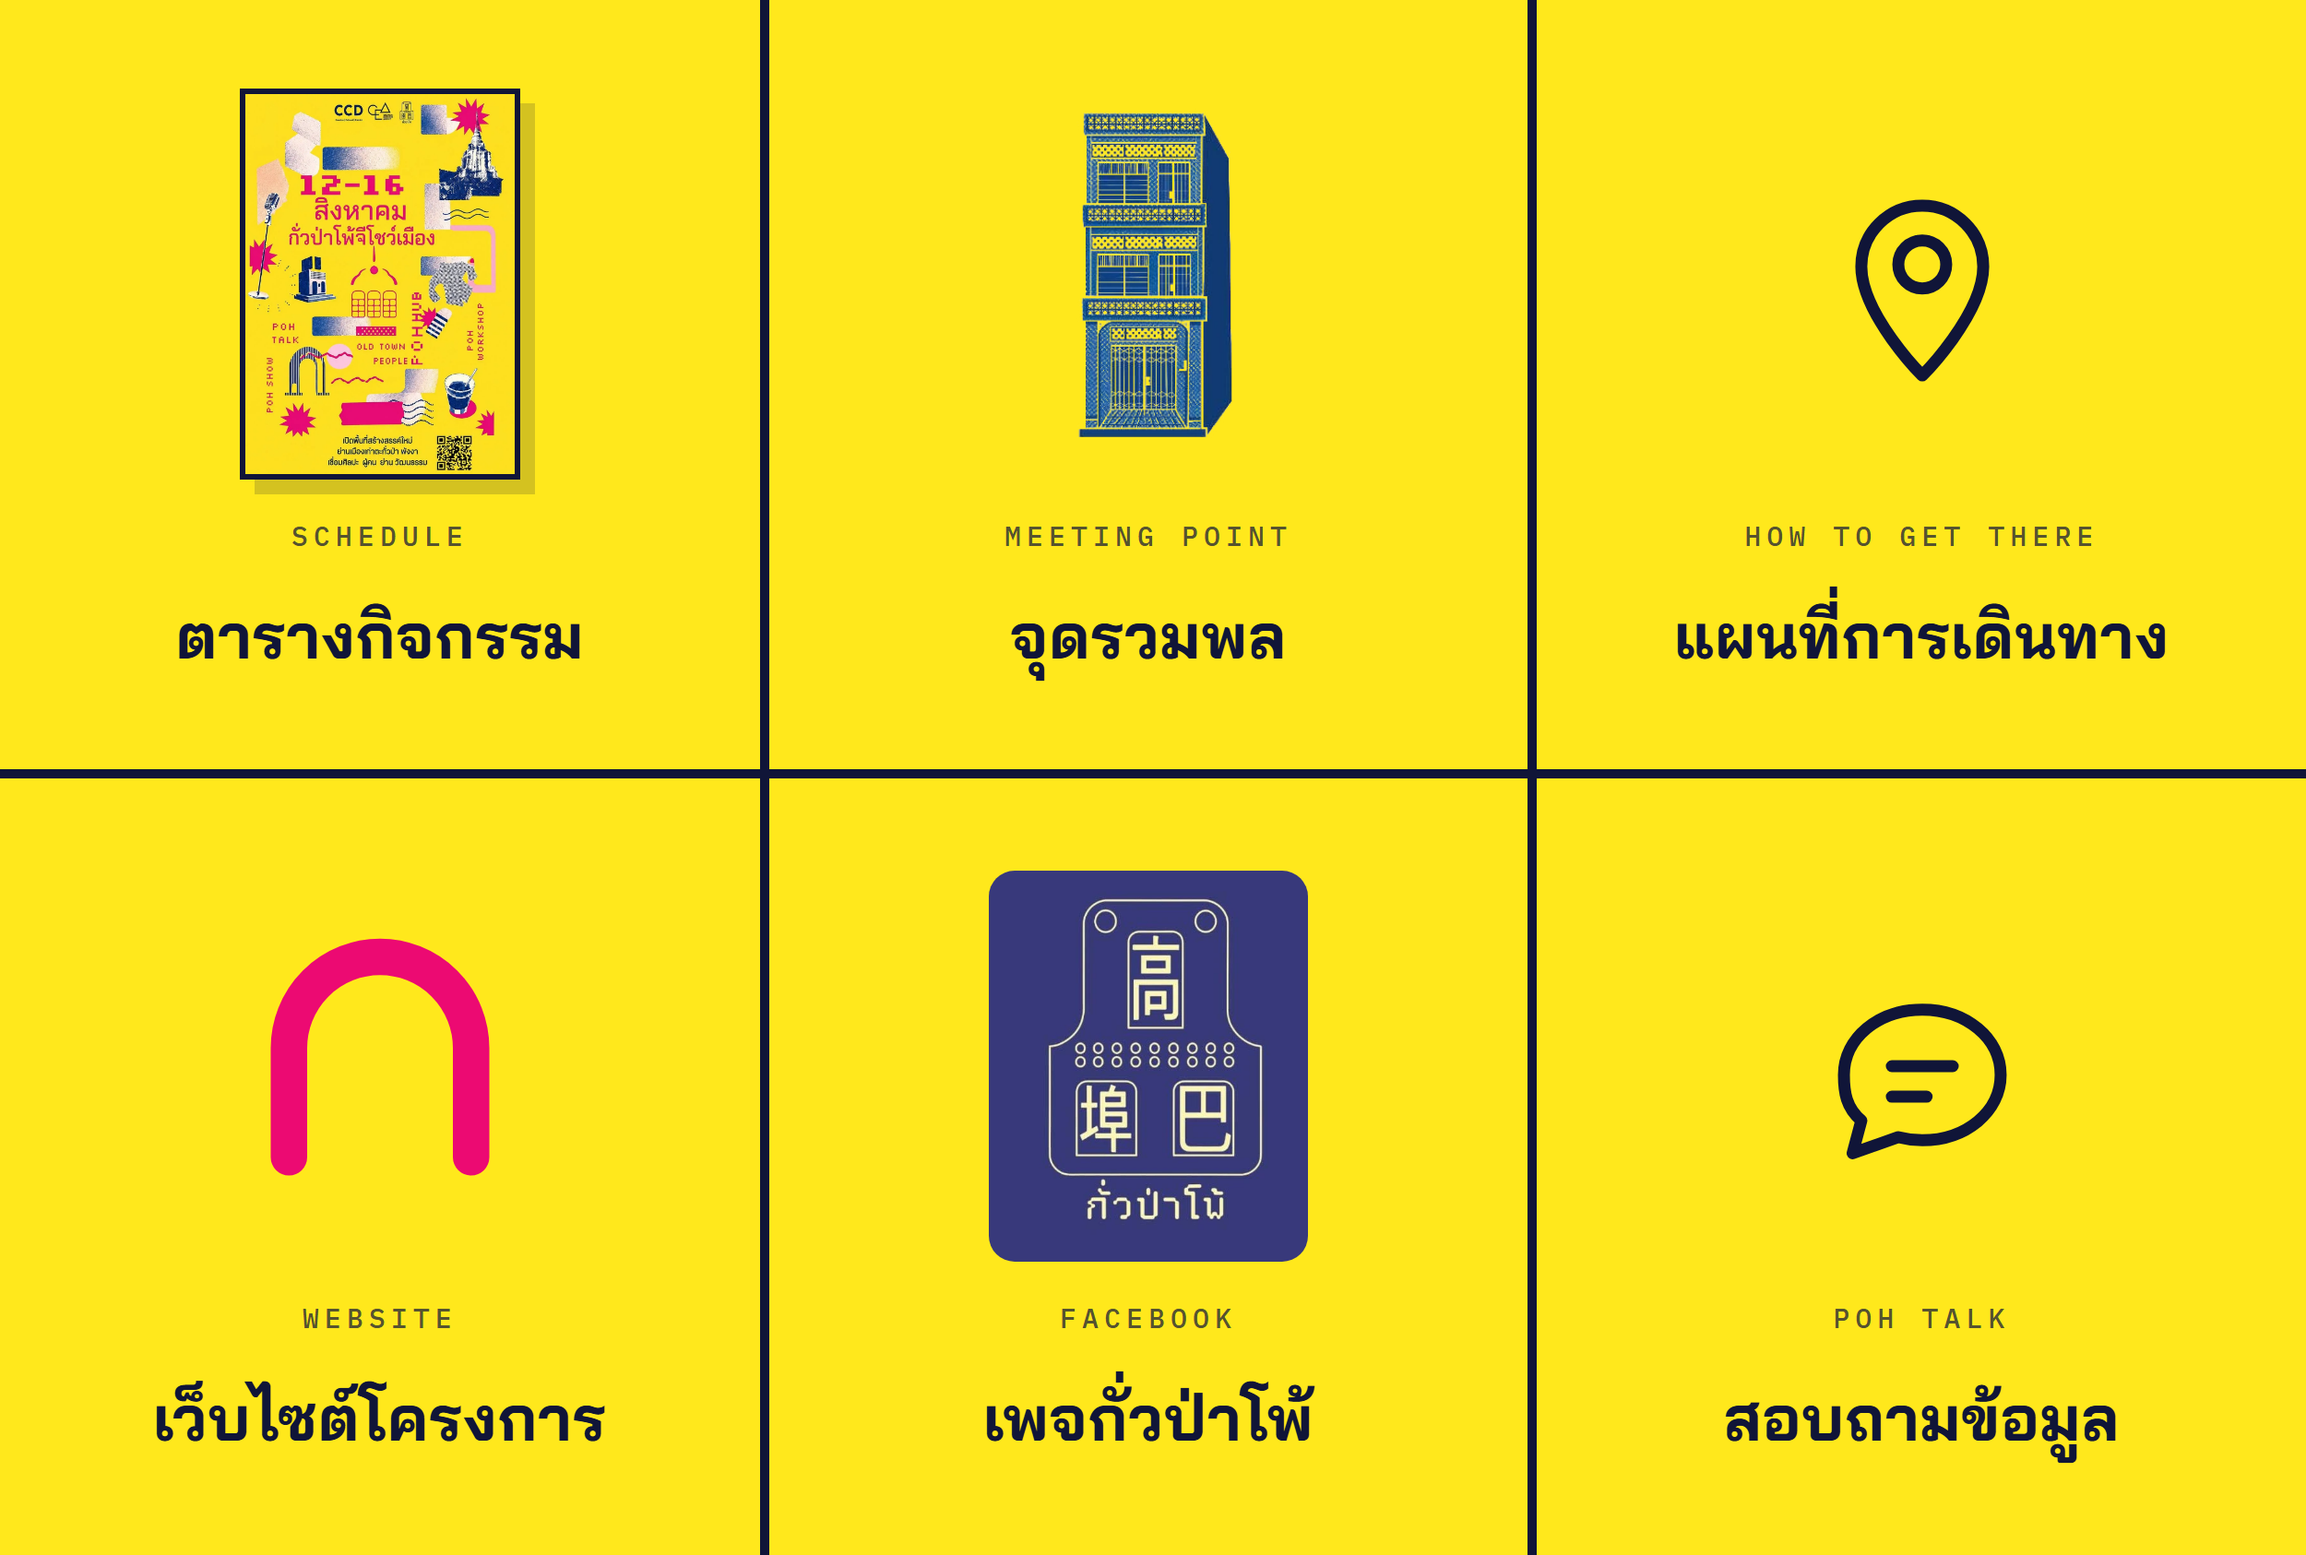
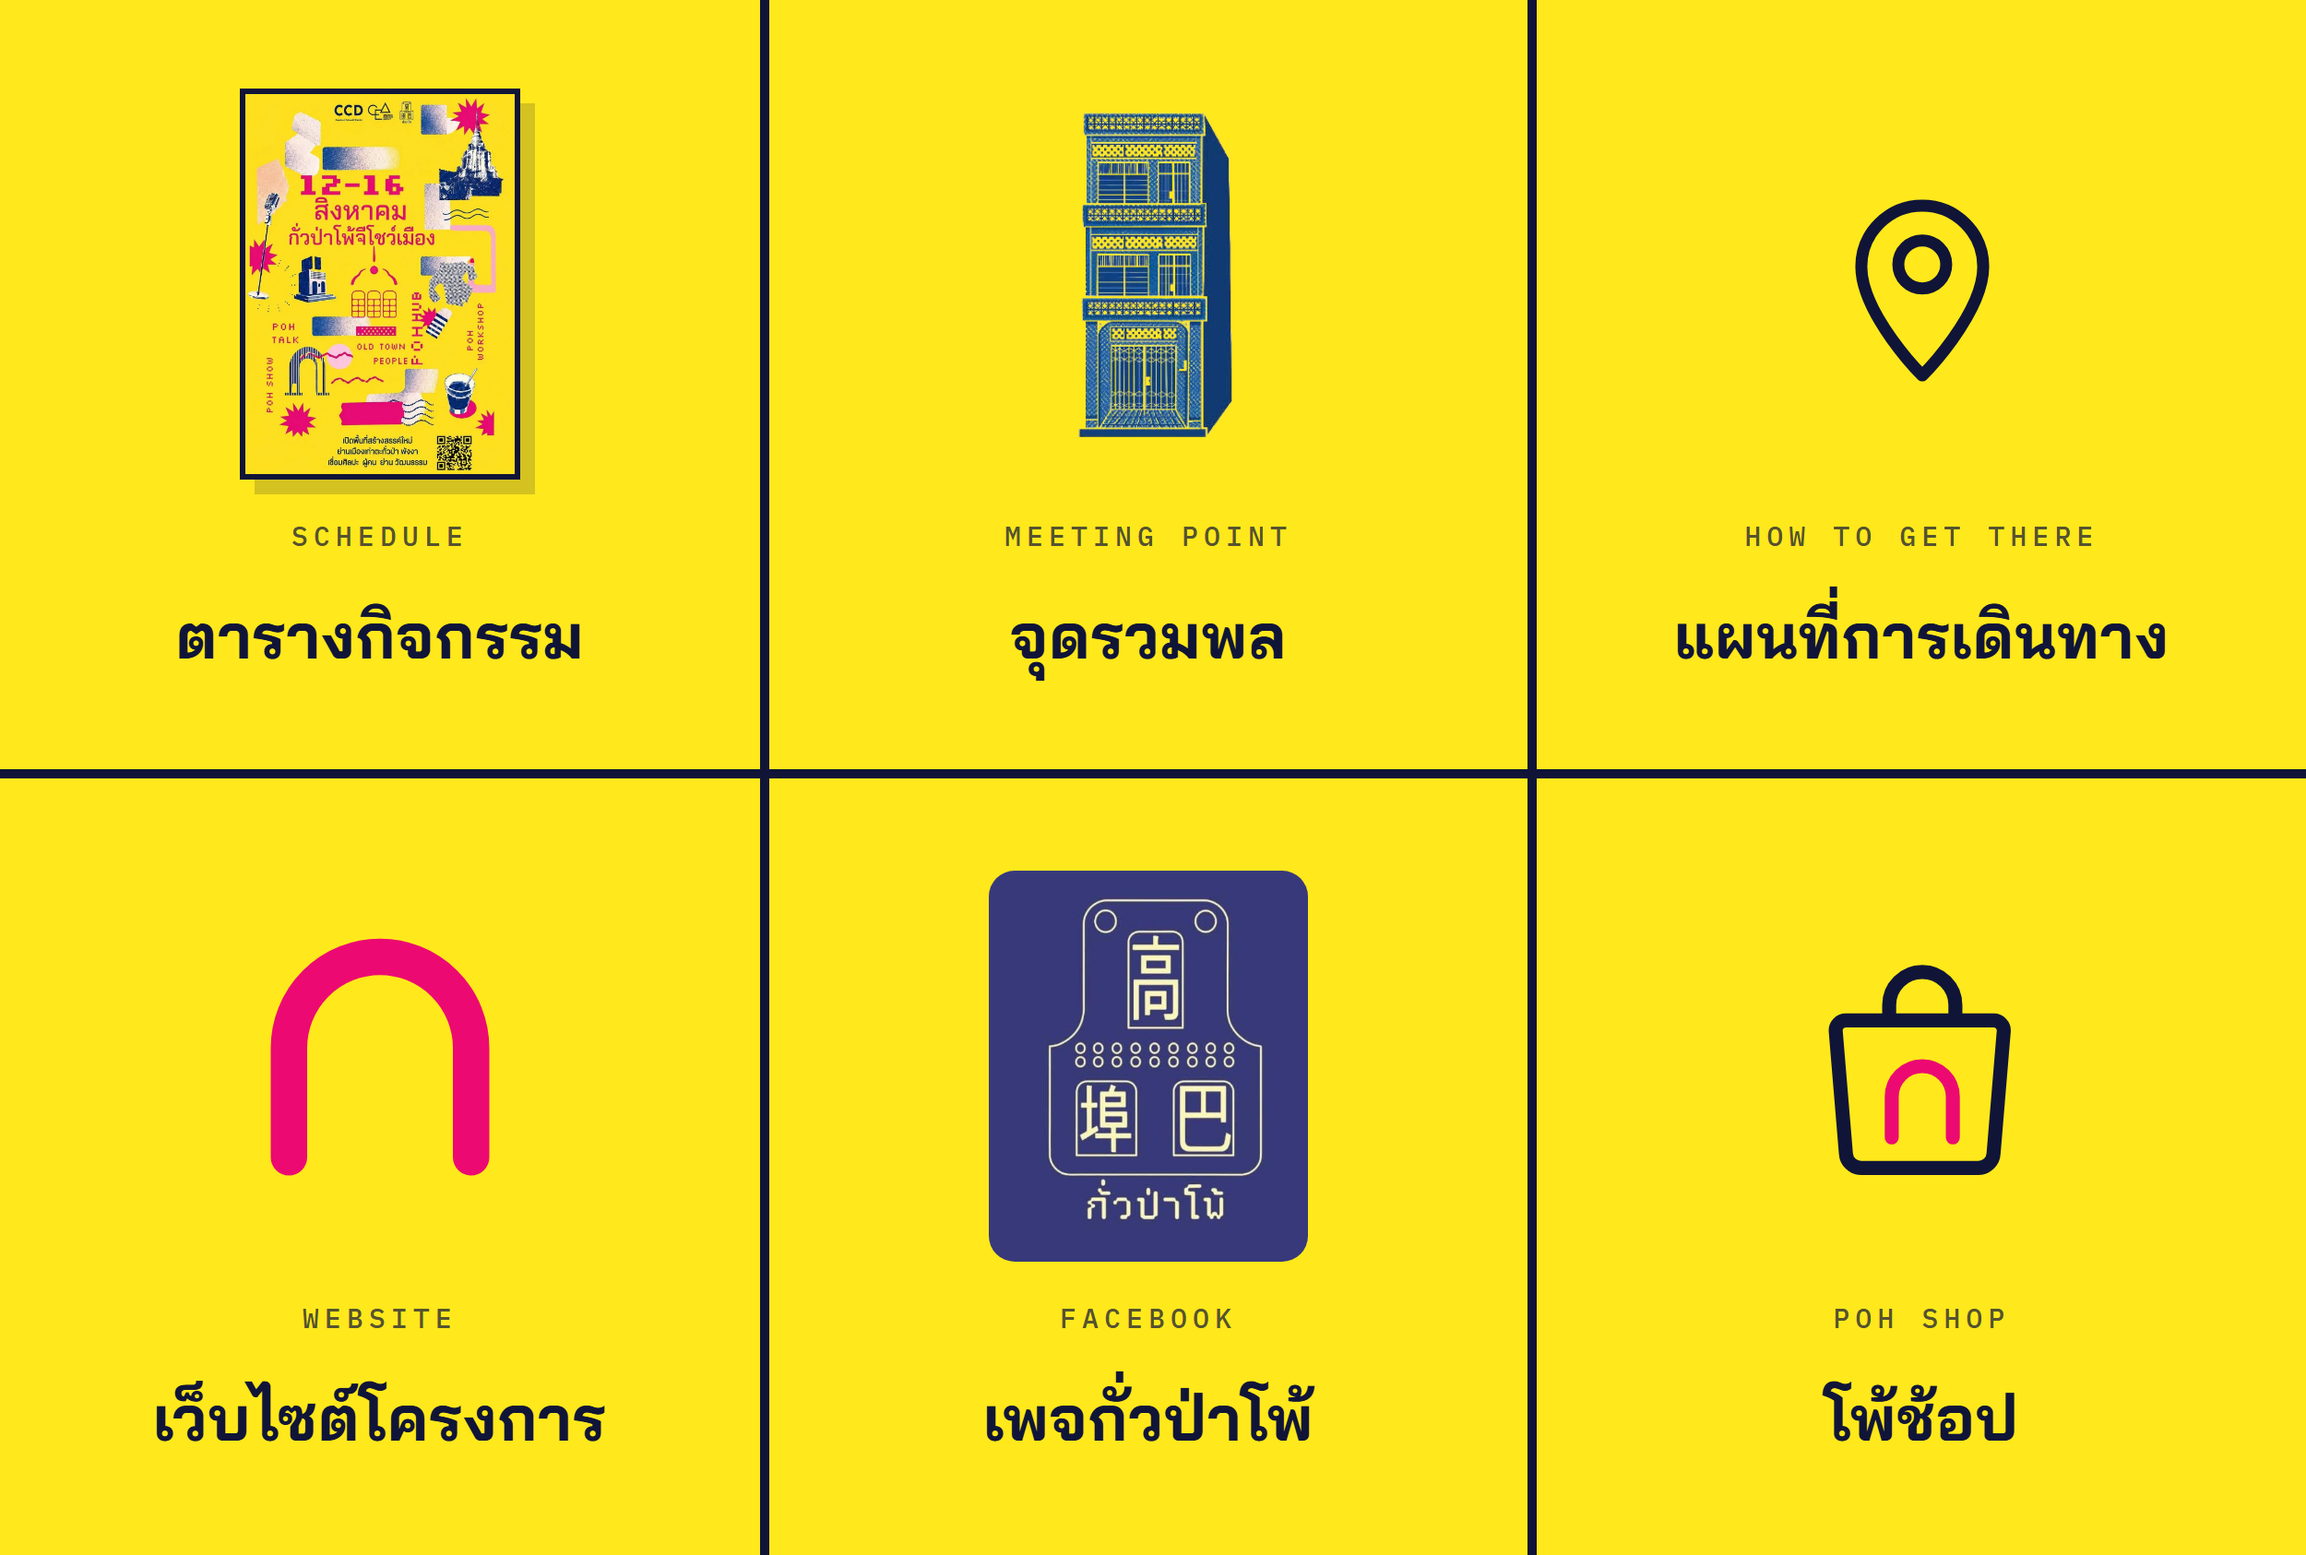
feat(richmenu): เปลี่ยนช่องสุดท้ายเป็น โพ้ช้อป · ไอคอนถุงหิ้วมีซุ้มโค้งข้างใน

Changed region(s): [[0.78, 0.6168, 0.8736, 0.7711], [0.7488, 0.8944, 0.936, 0.9561], [0.8424, 0.8327, 0.8736, 0.8636]]

diff --git a/richmenu/a-poster.html b/richmenu/a-poster.html
@@ -15,5 +15,5 @@
 <div class="cell" style="background:#FFE81C;color:#101538"><div class="art"><div class="ico"><svg viewBox="0 0 100 100"><path d="M50 92C50 92 78 64 78 42a28 28 0 1 0-56 0c0 22 28 50 28 50z" stroke="currentColor" fill="none" stroke-width="5.5" stroke-linecap="round" stroke-linejoin="round"/><circle cx="50" cy="41" r="11" stroke="currentColor" fill="none" stroke-width="5.5" stroke-linecap="round" stroke-linejoin="round"/></svg></div></div><div><div class="en">HOW TO GET THERE</div><div class="th">แผนที่การเดินทาง</div></div></div>
 <div class="cell" style="background:#FFE81C;color:#101538"><div class="art"><div class="ico ico-mark"><svg viewBox="0 0 32 32"><path d="M6 26V14a10 10 0 0 1 20 0v12" fill="none" stroke="#EC0A72" stroke-width="4" stroke-linecap="round"/></svg></div></div><div><div class="en">WEBSITE</div><div class="th">เว็บไซต์โครงการ</div></div></div>
 <div class="cell" style="background:#FFE81C;color:#101538"><div class="art"><img class="art-tile" src="logo-poh.webp" alt=""></div><div><div class="en">FACEBOOK</div><div class="th">เพจกั่วป่าโพ้</div></div></div>
-<div class="cell" style="background:#FFE81C;color:#101538"><div class="art"><div class="ico"><svg viewBox="0 0 100 100"><path d="M86 54c0 17-16 30-36 30a44 44 0 0 1-11-1.4L18 90l4-15C15 69 14 62 14 54c0-17 16-30 36-30s36 13 36 30z" stroke="currentColor" fill="none" stroke-width="5.5" stroke-linecap="round" stroke-linejoin="round"/><path d="M36 50h28M36 64h16" stroke="currentColor" fill="none" stroke-width="5.5" stroke-linecap="round" stroke-linejoin="round"/></svg></div></div><div><div class="en">POH TALK</div><div class="th">สอบถามข้อมูล</div></div></div>
+<div class="cell" style="background:#FFE81C;color:#101538"><div class="art"><div class="ico ico-shop"><svg viewBox="0 0 100 100"><path d="M22 32h56a4 4 0 0 1 4 4.3l-4 48a6 6 0 0 1-6 5.7H26a6 6 0 0 1-6-5.7l-4-48a4 4 0 0 1 4-4.3z" fill="none" stroke="currentColor" stroke-width="5.5" stroke-linejoin="round"/><path d="M37 32v-6a13 13 0 0 1 26 0v6" fill="none" stroke="currentColor" stroke-width="5.5" stroke-linecap="round"/><path d="M38 78V62a12 12 0 0 1 24 0v16" fill="none" stroke="#EC0A72" stroke-width="5.5" stroke-linecap="round"/></svg></div></div><div><div class="en">POH SHOP</div><div class="th">โพ้ช้อป</div></div></div>
 </body></html>

diff --git a/richmenu/b-blocks.html b/richmenu/b-blocks.html
@@ -12,5 +12,5 @@
 <div class="cell" style="background:#1E3FA8;color:#FBF7EC"><div class="art"><div class="ico"><svg viewBox="0 0 100 100"><path d="M50 92C50 92 78 64 78 42a28 28 0 1 0-56 0c0 22 28 50 28 50z" stroke="currentColor" fill="none" stroke-width="5.5" stroke-linecap="round" stroke-linejoin="round"/><circle cx="50" cy="41" r="11" stroke="currentColor" fill="none" stroke-width="5.5" stroke-linecap="round" stroke-linejoin="round"/></svg></div></div><div><div class="en">HOW TO GET THERE</div><div class="th">แผนที่การเดินทาง</div></div></div>
 <div class="cell" style="background:#FBF7EC;color:#101538"><div class="art"><div class="ico ico-mark"><svg viewBox="0 0 32 32"><path d="M6 26V14a10 10 0 0 1 20 0v12" fill="none" stroke="#EC0A72" stroke-width="4" stroke-linecap="round"/></svg></div></div><div><div class="en">WEBSITE</div><div class="th">เว็บไซต์โครงการ</div></div></div>
 <div class="cell" style="background:#F4331F;color:#FBF7EC"><div class="art"><img class="art-tile" src="logo-poh.webp" alt=""></div><div><div class="en">FACEBOOK</div><div class="th">เพจกั่วป่าโพ้</div></div></div>
-<div class="cell" style="background:#101538;color:#FFE81C"><div class="art"><div class="ico"><svg viewBox="0 0 100 100"><path d="M86 54c0 17-16 30-36 30a44 44 0 0 1-11-1.4L18 90l4-15C15 69 14 62 14 54c0-17 16-30 36-30s36 13 36 30z" stroke="currentColor" fill="none" stroke-width="5.5" stroke-linecap="round" stroke-linejoin="round"/><path d="M36 50h28M36 64h16" stroke="currentColor" fill="none" stroke-width="5.5" stroke-linecap="round" stroke-linejoin="round"/></svg></div></div><div><div class="en">POH TALK</div><div class="th">สอบถามข้อมูล</div></div></div>
+<div class="cell" style="background:#101538;color:#FFE81C"><div class="art"><div class="ico ico-shop"><svg viewBox="0 0 100 100"><path d="M22 32h56a4 4 0 0 1 4 4.3l-4 48a6 6 0 0 1-6 5.7H26a6 6 0 0 1-6-5.7l-4-48a4 4 0 0 1 4-4.3z" fill="none" stroke="currentColor" stroke-width="5.5" stroke-linejoin="round"/><path d="M37 32v-6a13 13 0 0 1 26 0v6" fill="none" stroke="currentColor" stroke-width="5.5" stroke-linecap="round"/><path d="M38 78V62a12 12 0 0 1 24 0v16" fill="none" stroke="#EC0A72" stroke-width="5.5" stroke-linecap="round"/></svg></div></div><div><div class="en">POH SHOP</div><div class="th">โพ้ช้อป</div></div></div>
 </body></html>

diff --git a/richmenu/c-paper.html b/richmenu/c-paper.html
@@ -21,5 +21,5 @@
 <div class="cell" style="background:#FBF7EC;color:#101538"><div class="art"><div class="ico"><svg viewBox="0 0 100 100"><path d="M50 92C50 92 78 64 78 42a28 28 0 1 0-56 0c0 22 28 50 28 50z" stroke="currentColor" fill="none" stroke-width="5.5" stroke-linecap="round" stroke-linejoin="round"/><circle cx="50" cy="41" r="11" stroke="currentColor" fill="none" stroke-width="5.5" stroke-linecap="round" stroke-linejoin="round"/></svg></div></div><div><div class="en">HOW TO GET THERE</div><div class="th">แผนที่การเดินทาง</div></div></div>
 <div class="cell" style="background:#FBF7EC;color:#101538"><div class="art"><div class="ico ico-mark"><svg viewBox="0 0 32 32"><path d="M6 26V14a10 10 0 0 1 20 0v12" fill="none" stroke="#EC0A72" stroke-width="4" stroke-linecap="round"/></svg></div></div><div><div class="en">WEBSITE</div><div class="th">เว็บไซต์โครงการ</div></div></div>
 <div class="cell" style="background:#FBF7EC;color:#101538"><div class="art"><img class="art-tile" src="logo-poh.webp" alt=""></div><div><div class="en">FACEBOOK</div><div class="th">เพจกั่วป่าโพ้</div></div></div>
-<div class="cell" style="background:#FBF7EC;color:#101538"><div class="art"><div class="ico"><svg viewBox="0 0 100 100"><path d="M86 54c0 17-16 30-36 30a44 44 0 0 1-11-1.4L18 90l4-15C15 69 14 62 14 54c0-17 16-30 36-30s36 13 36 30z" stroke="currentColor" fill="none" stroke-width="5.5" stroke-linecap="round" stroke-linejoin="round"/><path d="M36 50h28M36 64h16" stroke="currentColor" fill="none" stroke-width="5.5" stroke-linecap="round" stroke-linejoin="round"/></svg></div></div><div><div class="en">POH TALK</div><div class="th">สอบถามข้อมูล</div></div></div>
+<div class="cell" style="background:#FBF7EC;color:#101538"><div class="art"><div class="ico ico-shop"><svg viewBox="0 0 100 100"><path d="M22 32h56a4 4 0 0 1 4 4.3l-4 48a6 6 0 0 1-6 5.7H26a6 6 0 0 1-6-5.7l-4-48a4 4 0 0 1 4-4.3z" fill="none" stroke="currentColor" stroke-width="5.5" stroke-linejoin="round"/><path d="M37 32v-6a13 13 0 0 1 26 0v6" fill="none" stroke="currentColor" stroke-width="5.5" stroke-linecap="round"/><path d="M38 78V62a12 12 0 0 1 24 0v16" fill="none" stroke="#EC0A72" stroke-width="5.5" stroke-linecap="round"/></svg></div></div><div><div class="en">POH SHOP</div><div class="th">โพ้ช้อป</div></div></div>
 </body></html>

diff --git a/richmenu/_base.css b/richmenu/_base.css
@@ -26,6 +26,7 @@ body{
 .art-tile{height:100%;width:auto;display:block;border-radius:14px}
 /* ซุ้มโค้งเป็นเส้นเปล่า เลยต้องใหญ่กว่าไอคอนอื่นถึงจะน้ำหนักเท่ากัน */
 .ico-mark{width:158px;height:158px}
+.ico-shop{width:138px;height:138px}
 .en{
   font-family:'IBM Plex Mono',ui-monospace,monospace;font-weight:500;
   font-size:15px;letter-spacing:.2em;text-transform:uppercase;

diff --git a/richmenu/gen.py b/richmenu/gen.py
@@ -39,6 +39,15 @@ ART = {
     "__poster__": '<img class="poster" src="../images/poster-main.webp" alt="">',
     "__line78__": '<img class="art-line" src="../images/line-78.webp" alt="">',
     "__logo__": '<img class="art-tile" src="logo-poh.webp" alt="">',
+    # ถุงหิ้ว + ซุ้มโค้งของโครงการอยู่ข้างใน · บอกว่า "ช้อป" โดยไม่หลุดธีม
+    "__shop__": '<div class="ico ico-shop"><svg viewBox="0 0 100 100">'
+                '<path d="M22 32h56a4 4 0 0 1 4 4.3l-4 48a6 6 0 0 1-6 5.7H26a6 6 0 0 1-6-5.7'
+                'l-4-48a4 4 0 0 1 4-4.3z" fill="none" stroke="currentColor" stroke-width="5.5" '
+                'stroke-linejoin="round"/>'
+                '<path d="M37 32v-6a13 13 0 0 1 26 0v6" fill="none" stroke="currentColor" '
+                'stroke-width="5.5" stroke-linecap="round"/>'
+                '<path d="M38 78V62a12 12 0 0 1 24 0v16" fill="none" stroke="#EC0A72" '
+                'stroke-width="5.5" stroke-linecap="round"/></svg></div>',
     # ซุ้มโค้ง = มาร์กของเว็บ (path เดียวกับ favicon ใน index.html)
     "__mark__": '<div class="ico ico-mark"><svg viewBox="0 0 32 32">'
                 '<path d="M6 26V14a10 10 0 0 1 20 0v12" fill="none" stroke="#EC0A72" '
@@ -51,7 +60,7 @@ CELLS = [
     ("map", "HOW TO GET THERE", "แผนที่การเดินทาง"),
     ("__mark__", "WEBSITE", "เว็บไซต์โครงการ"),
     ("__logo__", "FACEBOOK", "เพจกั่วป่าโพ้"),
-    ("ask", "POH TALK", "สอบถามข้อมูล"),   # ชื่อแทร็กจากโปสเตอร์งาน
+    ("__shop__", "POH SHOP", "โพ้ช้อป"),
 ]
 
 PAL = dict(yellow="#FFE81C", magenta="#EC0A72", cobalt="#1E3FA8",
